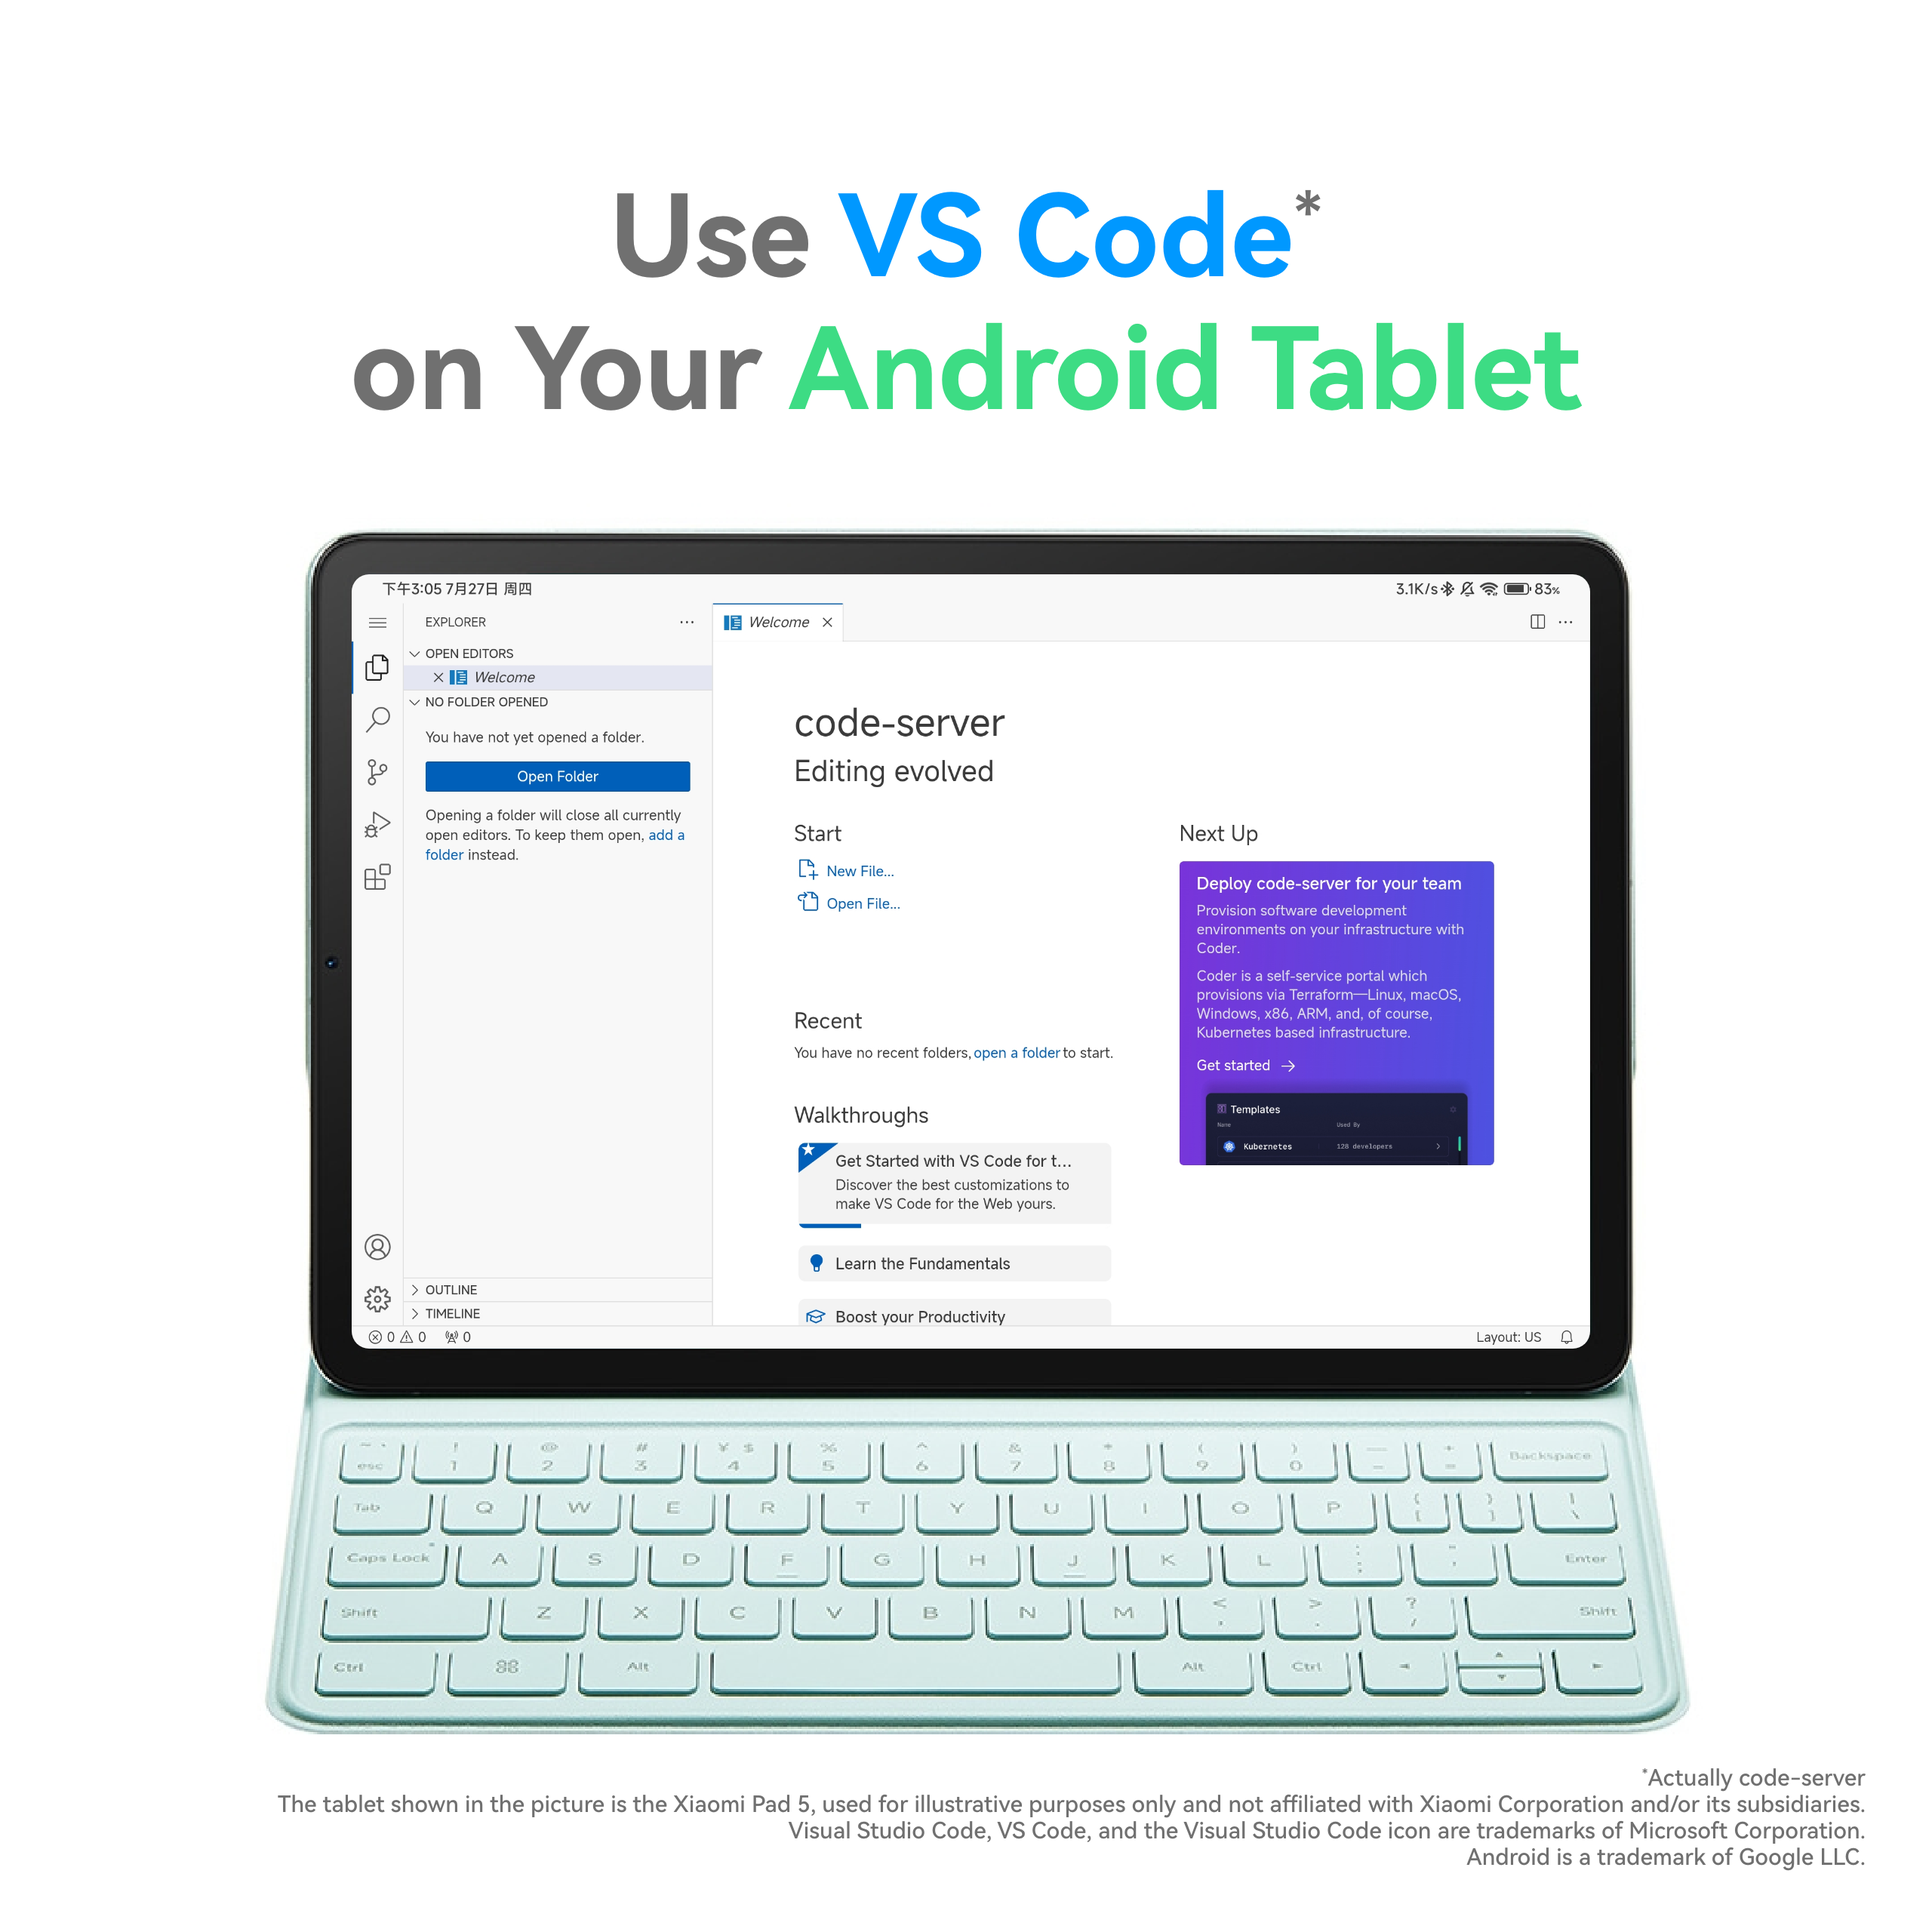
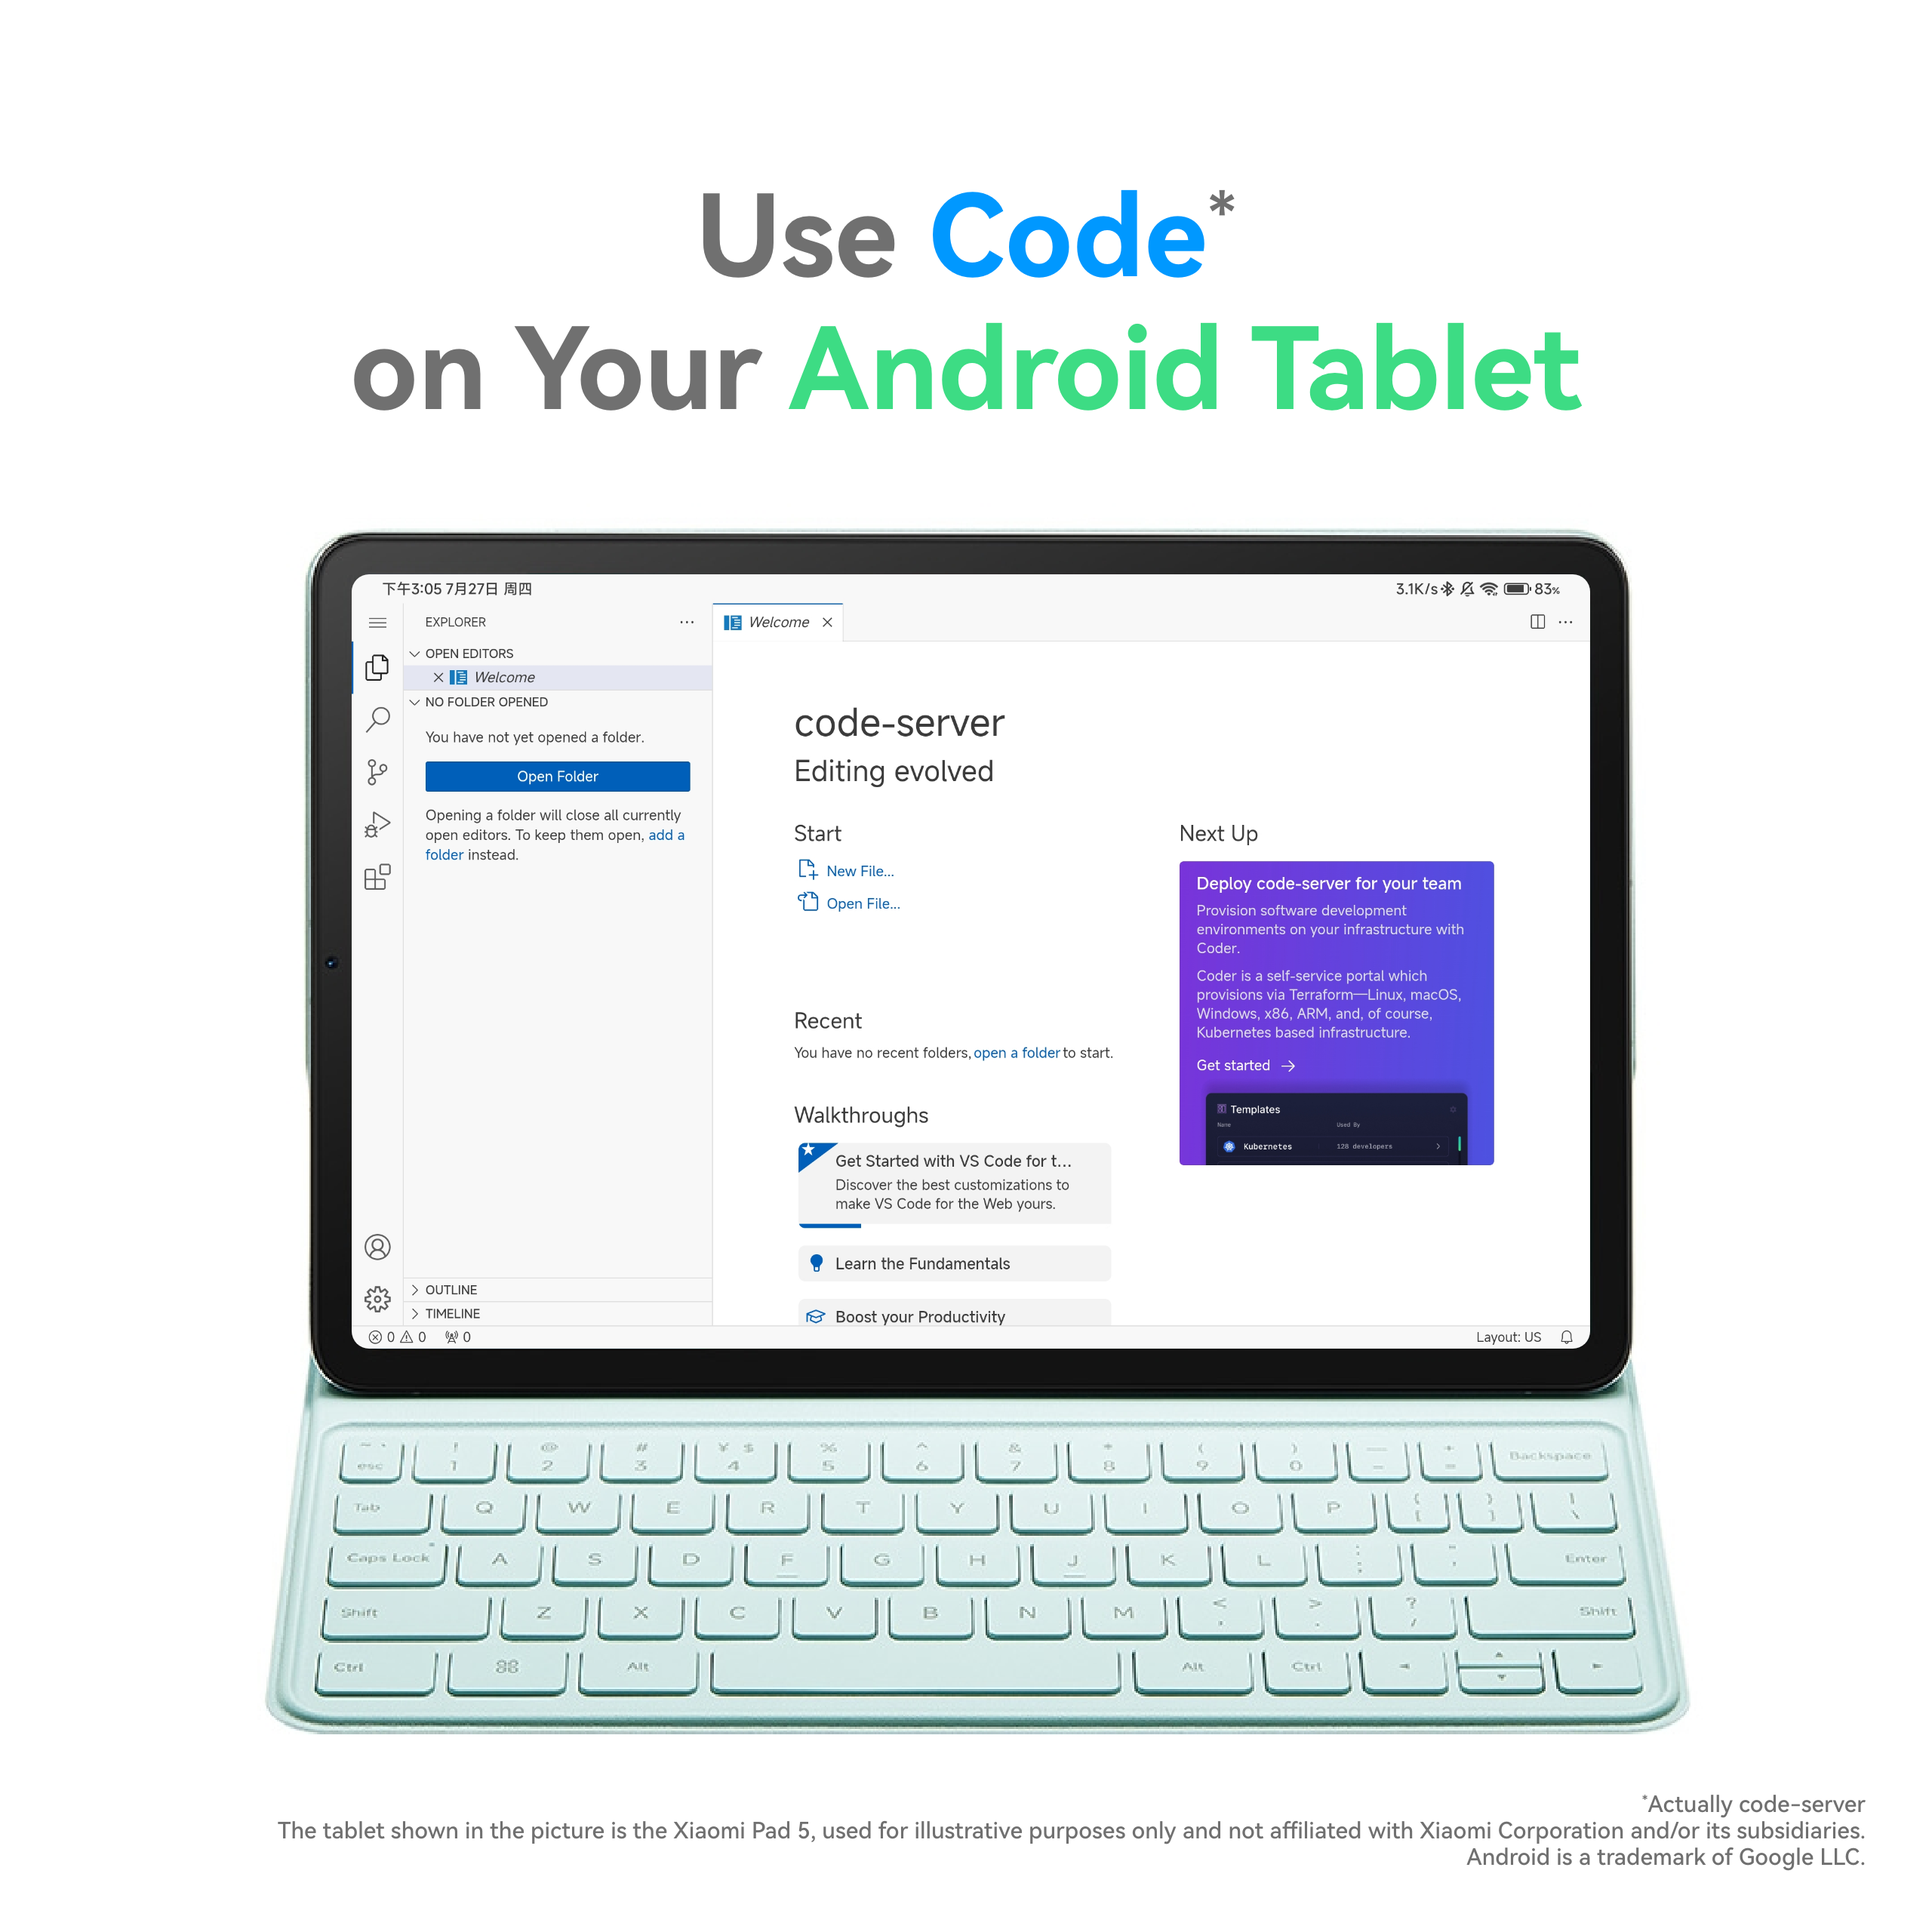
changed name

Changed region(s): [[0.25, 0.9062, 0.9688, 0.9688], [0.3125, 0.0938, 0.6875, 0.1562], [0.1562, 0.9062, 0.2188, 0.9688]]

diff --git a/README_EN.md b/README_EN.md
@@ -1,6 +1,6 @@
 > Translated from Chinese Simplified by ChatGPT 3.5.
 
-# Use VS Code on Your Android Tablet（[`code-server`](https://coder.com/docs/code-server/)）
+# Use Code on Your Android Tablet（[`code-server`](https://coder.com/docs/code-server/)）
 
 ![](/ReadmeImageEN.png)
 

diff --git a/README.md b/README.md
@@ -1,4 +1,4 @@
-# 在 Android 平板上使用 VS Code（[`code-server`](https://coder.com/docs/code-server/)）
+# 在 Android 平板上使用 Code（[`code-server`](https://coder.com/docs/code-server/)）
 
 ![](/ReadmeImageZhCN.png)
 
